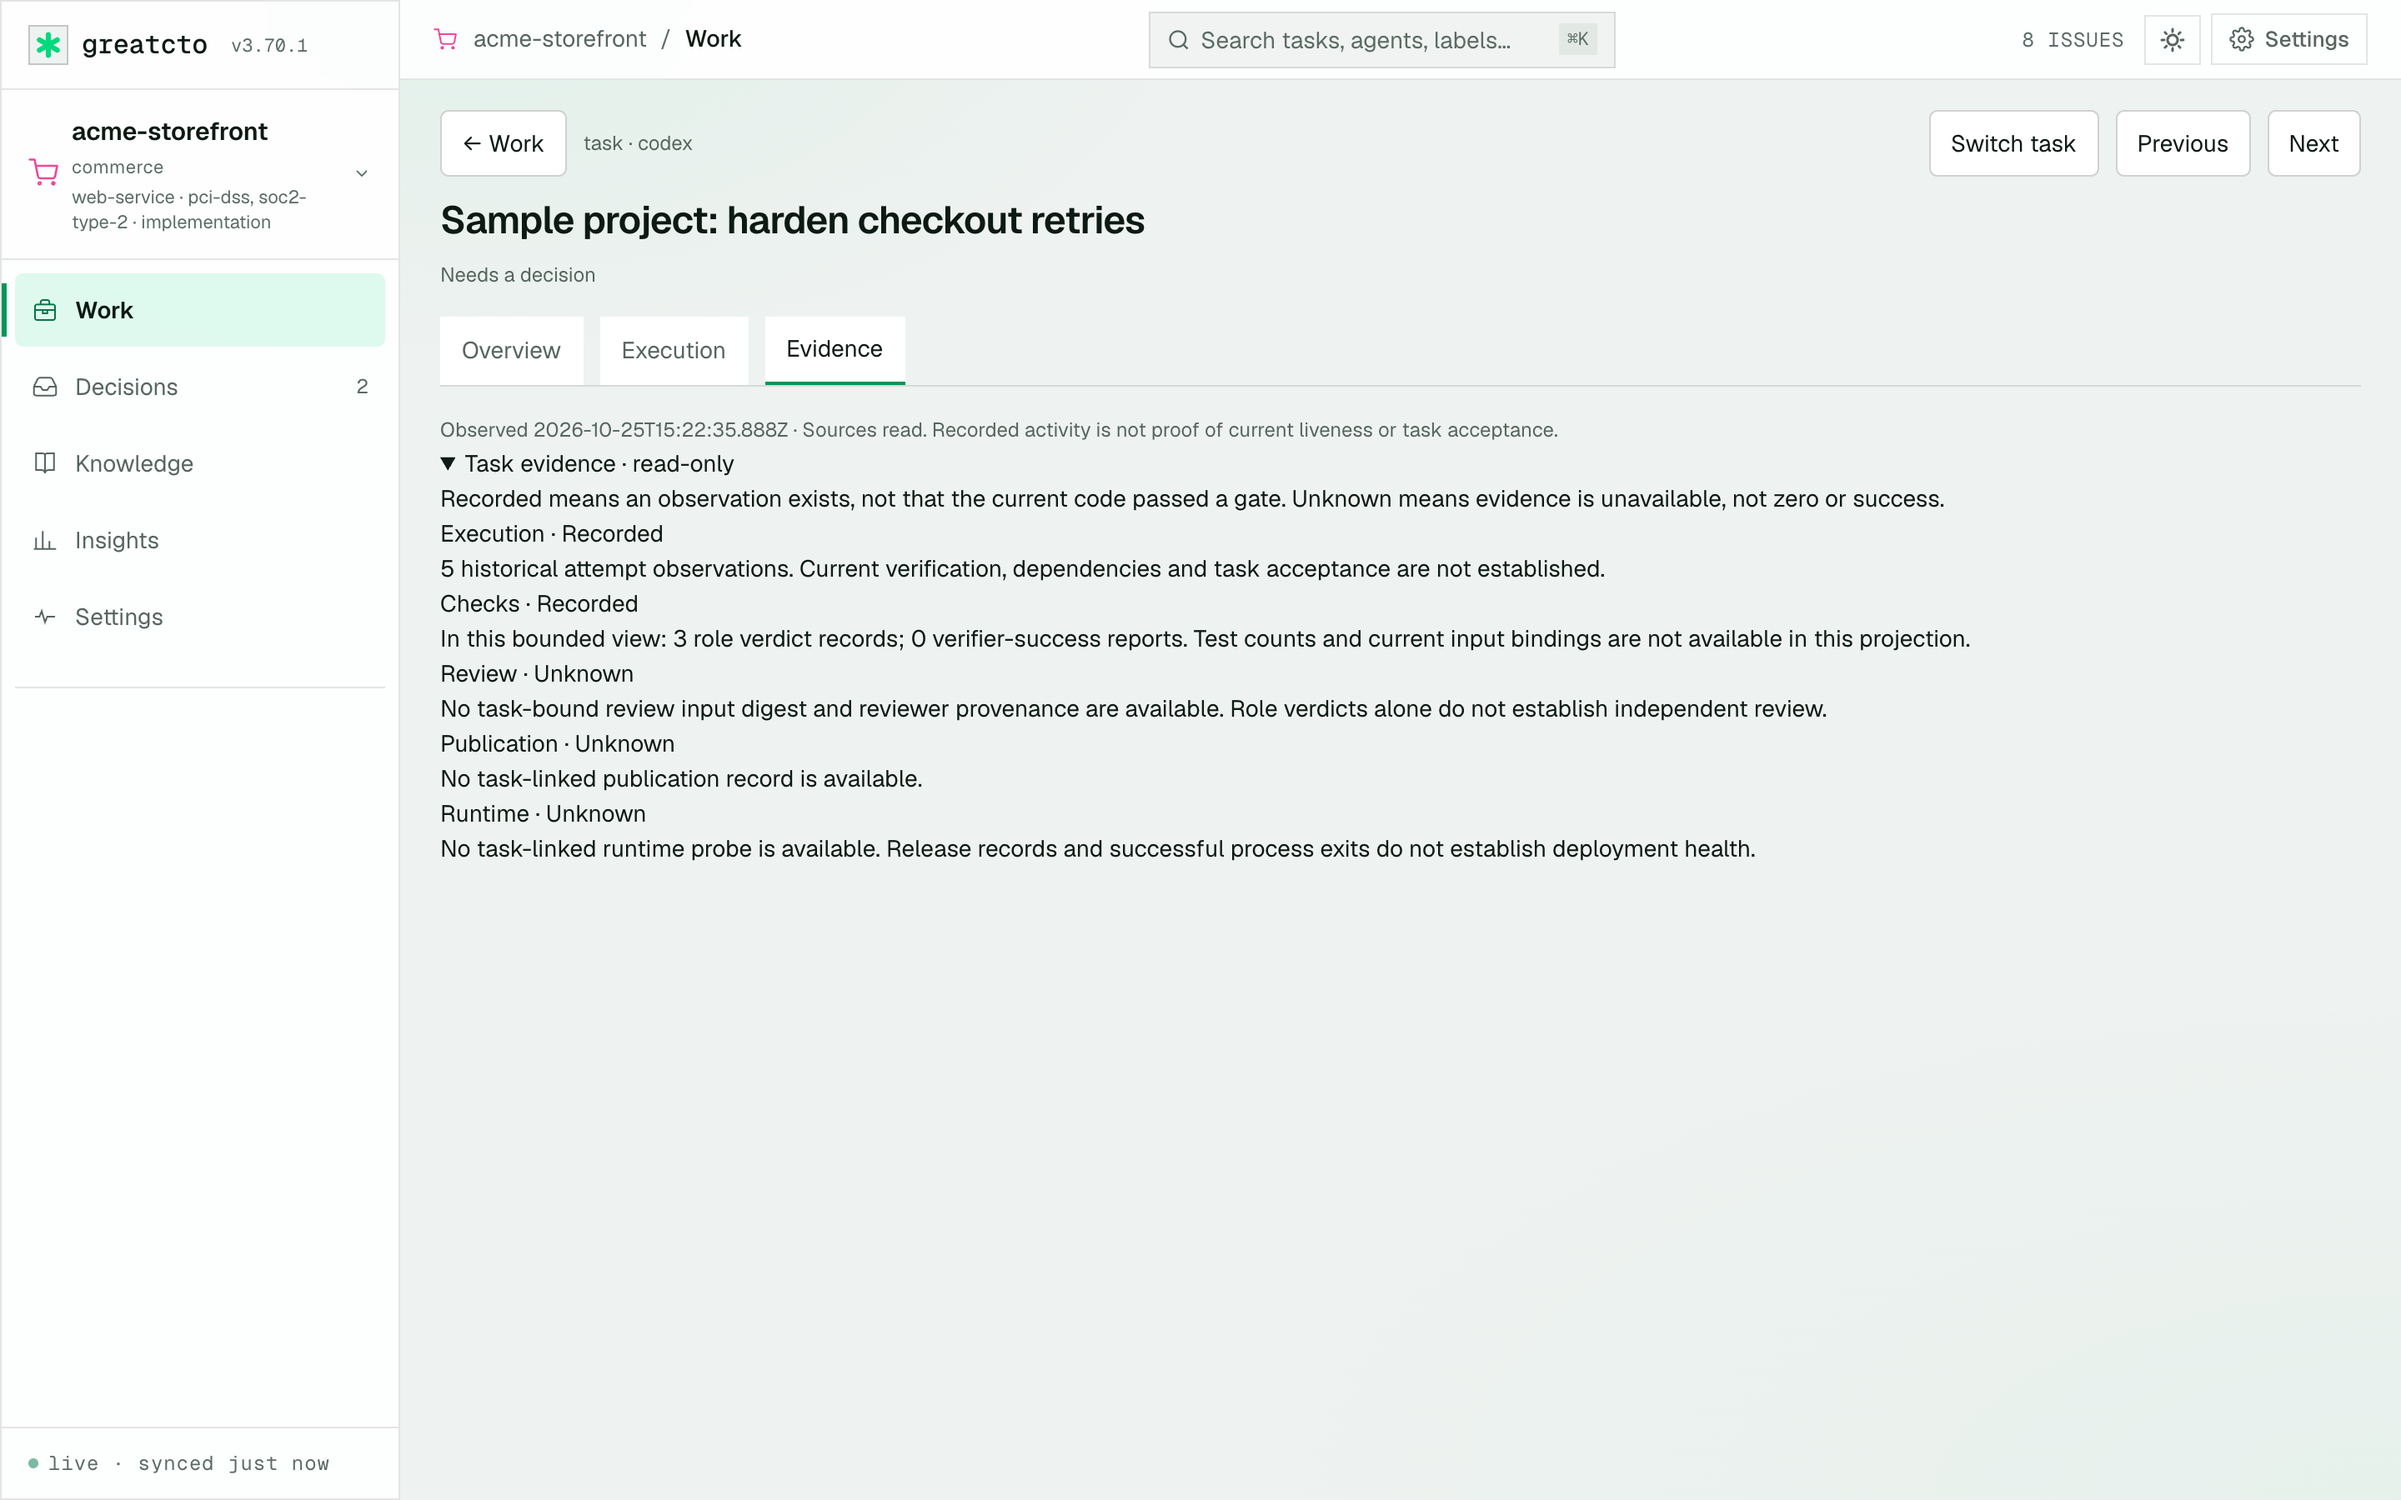
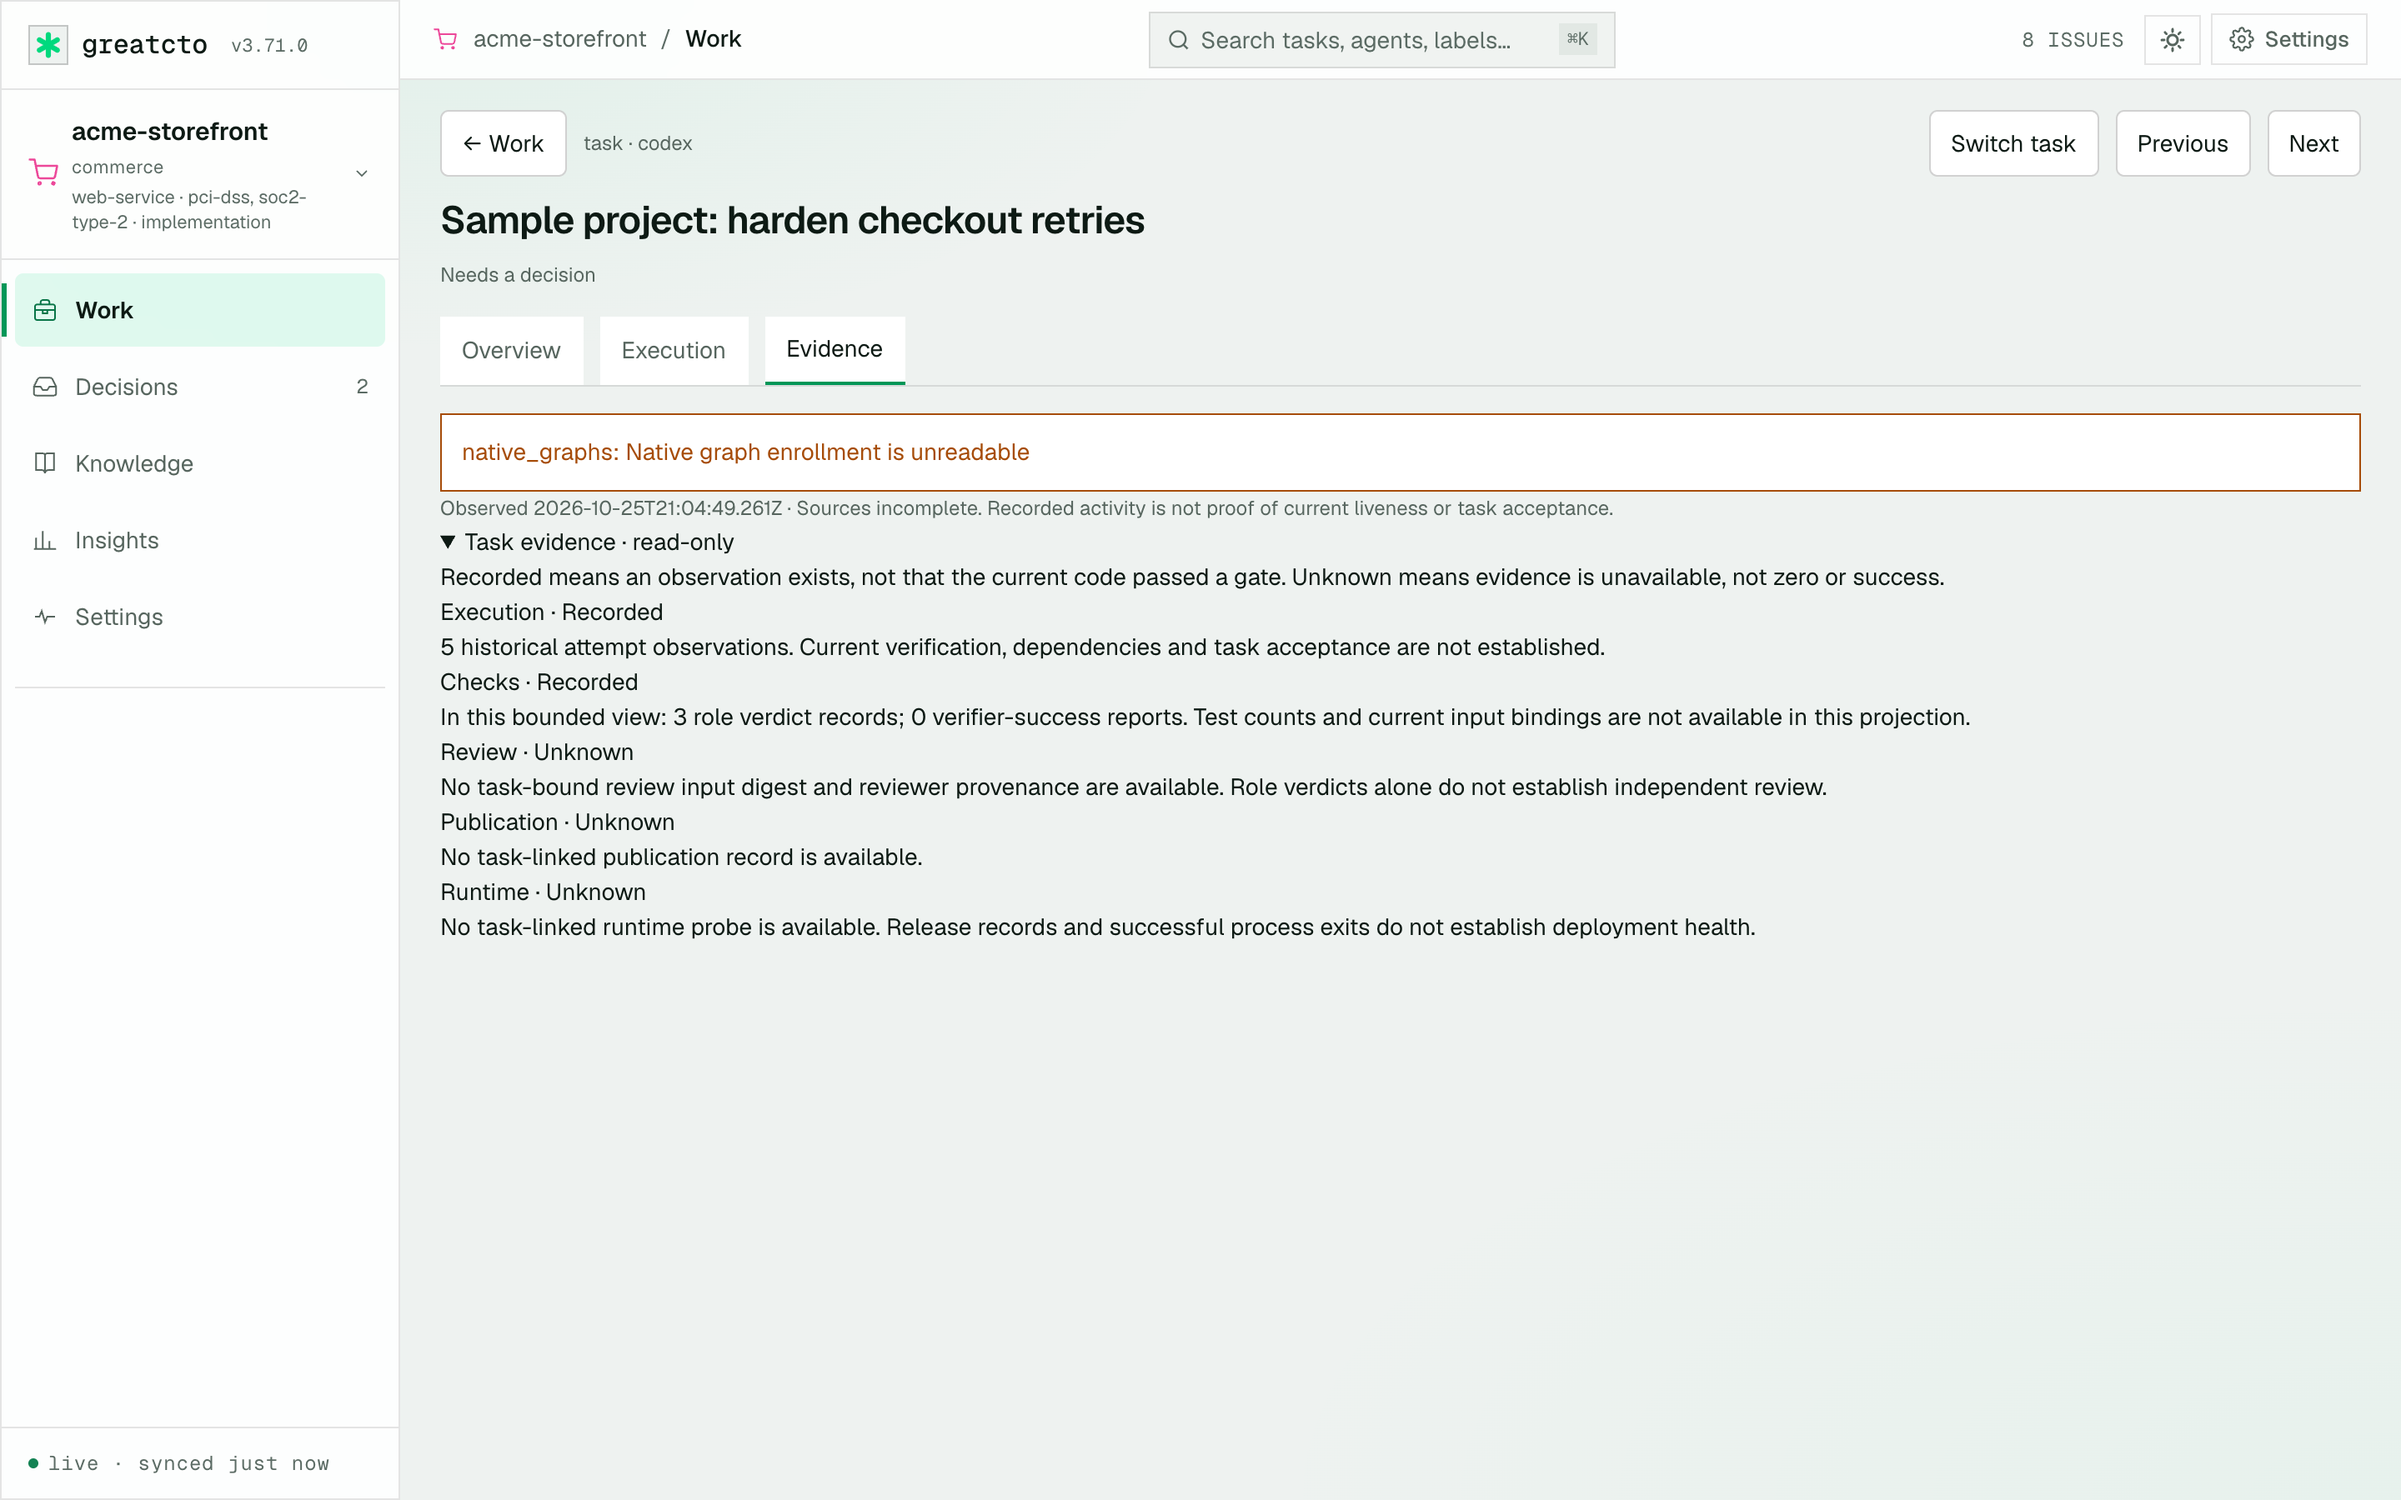
feat(v3.71.0): add opt-in cross-host graph observations

Changed region(s): [[0.1875, 0.28, 0.8125, 0.6222]]

diff --git a/CHANGELOG.md b/CHANGELOG.md
@@ -57,6 +57,34 @@ All notable changes to great_cto are documented here.
 
 
 
+
+## v3.71.0 — 2026-10-25
+
+Opt-in host observations add source-labelled Codex and Claude Code lanes beside the controller-owned execution graph, with explicit coverage and loss reporting.
+
+### What's new
+
+- Project-, host- and session-bound metadata journals for structured execution and native observer hooks. Collection is off by default; prompts, tool arguments, output and credentials are excluded.
+- Read-only graph lanes, node inspection, coverage dimensions, paging, search and layout controls. Controller transitions remain distinct from supplemental host observations.
+- Bounded private journals, identity validation, deduplication, persistent loss markers and fail-closed file handling. Observers cannot approve gates or change execution authority.
+- CLI controls for auditing sources, enabling collection, binding sessions, reading observations and revoking collection.
+
+### Fixed
+
+- Bind parallel worker observations before prepared attempts appear in controller history, preserving project isolation and verified joins.
+- Treat native Codex tool completion as an unknown outcome when the host payload provides no reliable success signal, including a real nonzero-exit case.
+- Preserve gaps for malformed delivery identities and unrecognised host events instead of inventing causal edges or completeness.
+
+### Validation and limits
+
+The implementation tree passed the canonical local gate, including 22 browser scenarios without skips. Live synthetic-project checks exercised Codex, Claude Code through OpenRouter, concurrent controlled workers and native lifecycle observations. Native observations do not attest complete host coverage; resume identities and child deliveries can remain unavailable. Fifteen opt-in/live checks in the canonical suite remain NOT CHECKED. These results do not establish deployment success, general native-session completeness or measured quality uplift. A fresh gate on the versioned release candidate is required before publication. Domain packs and graph collection remain opt-in; the separate Kimi reviewer candidate is not included.
+
+- _Add one bullet per shipped feature._
+- _Cite ADRs introduced (if any)._
+- _Mention test counts and opt-out flags._
+
+---
+
 ## v3.70.1 — 2026-10-25
 
 Work opens as a full-width list, and each task has its own workspace with a wide execution canvas. The public README and Blueprint landing describe the current controlled-run graphs, focused domains and responsibility contracts without claiming live-model completeness.

diff --git a/skills/codex-host/SKILL.md b/skills/codex-host/SKILL.md
@@ -17,8 +17,8 @@ transition.
 ## Preflight
 
 ```sh
-npx --yes great-cto@3.70.1 codex-host doctor
-npx --yes great-cto@3.70.1 codex-host list --dir /absolute/project
+npx --yes great-cto@3.71.0 codex-host doctor
+npx --yes great-cto@3.71.0 codex-host list --dir /absolute/project
 ```
 
 `doctor.state=blocked` means do not start. Docker may be unavailable when no
@@ -32,7 +32,7 @@ Policies must be operator-owned absolute files outside the worker project.
 Allowed paths are explicit controller write boundaries.
 
 ```sh
-npx --yes great-cto@3.70.1 codex-host start \
+npx --yes great-cto@3.71.0 codex-host start \
   --dir /absolute/project \
   --prompt "the requested outcome" \
   --allow src,tests,docs \
@@ -58,9 +58,9 @@ Then pass back the controller-issued token; never synthesize or persist one in a
 project file.
 
 ```sh
-npx --yes great-cto@3.70.1 codex-host approve RUN_UUID --token GATE_TOKEN
-npx --yes great-cto@3.70.1 codex-host approve-release RUN_UUID --token RELEASE_TOKEN
-npx --yes great-cto@3.70.1 codex-host resume RUN_UUID
+npx --yes great-cto@3.71.0 codex-host approve RUN_UUID --token GATE_TOKEN
+npx --yes great-cto@3.71.0 codex-host approve-release RUN_UUID --token RELEASE_TOKEN
+npx --yes great-cto@3.71.0 codex-host resume RUN_UUID
 ```
 
 Use `recover` only after inspecting the recorded reason. Recovery reuses the

diff --git a/docs/HOST-CODEX.md b/docs/HOST-CODEX.md
@@ -16,14 +16,14 @@ Run through the version-pinned npm entrypoint. Installing the Codex plugin does
 not add an executable to `PATH`:
 
 ```sh
-npx --yes great-cto@3.70.1 codex-host doctor
-npx --yes great-cto@3.70.1 codex-host start --dir /path/to/project --allow src,docs --prompt 'Implement the specified feature'
-npx --yes great-cto@3.70.1 codex-host status <run-uuid>
-npx --yes great-cto@3.70.1 codex-host approve <run-uuid> --token <pending-token>
-npx --yes great-cto@3.70.1 codex-host resume <run-uuid>
-npx --yes great-cto@3.70.1 codex-host recover <run-uuid>
-npx --yes great-cto@3.70.1 codex-host cancel <run-uuid>
-npx --yes great-cto@3.70.1 codex-host list --dir /path/to/project
+npx --yes great-cto@3.71.0 codex-host doctor
+npx --yes great-cto@3.71.0 codex-host start --dir /path/to/project --allow src,docs --prompt 'Implement the specified feature'
+npx --yes great-cto@3.71.0 codex-host status <run-uuid>
+npx --yes great-cto@3.71.0 codex-host approve <run-uuid> --token <pending-token>
+npx --yes great-cto@3.71.0 codex-host resume <run-uuid>
+npx --yes great-cto@3.71.0 codex-host recover <run-uuid>
+npx --yes great-cto@3.71.0 codex-host cancel <run-uuid>
+npx --yes great-cto@3.71.0 codex-host list --dir /path/to/project
 ```
 
 For a mixed run from a source checkout, assign roles at start. Unlisted roles
